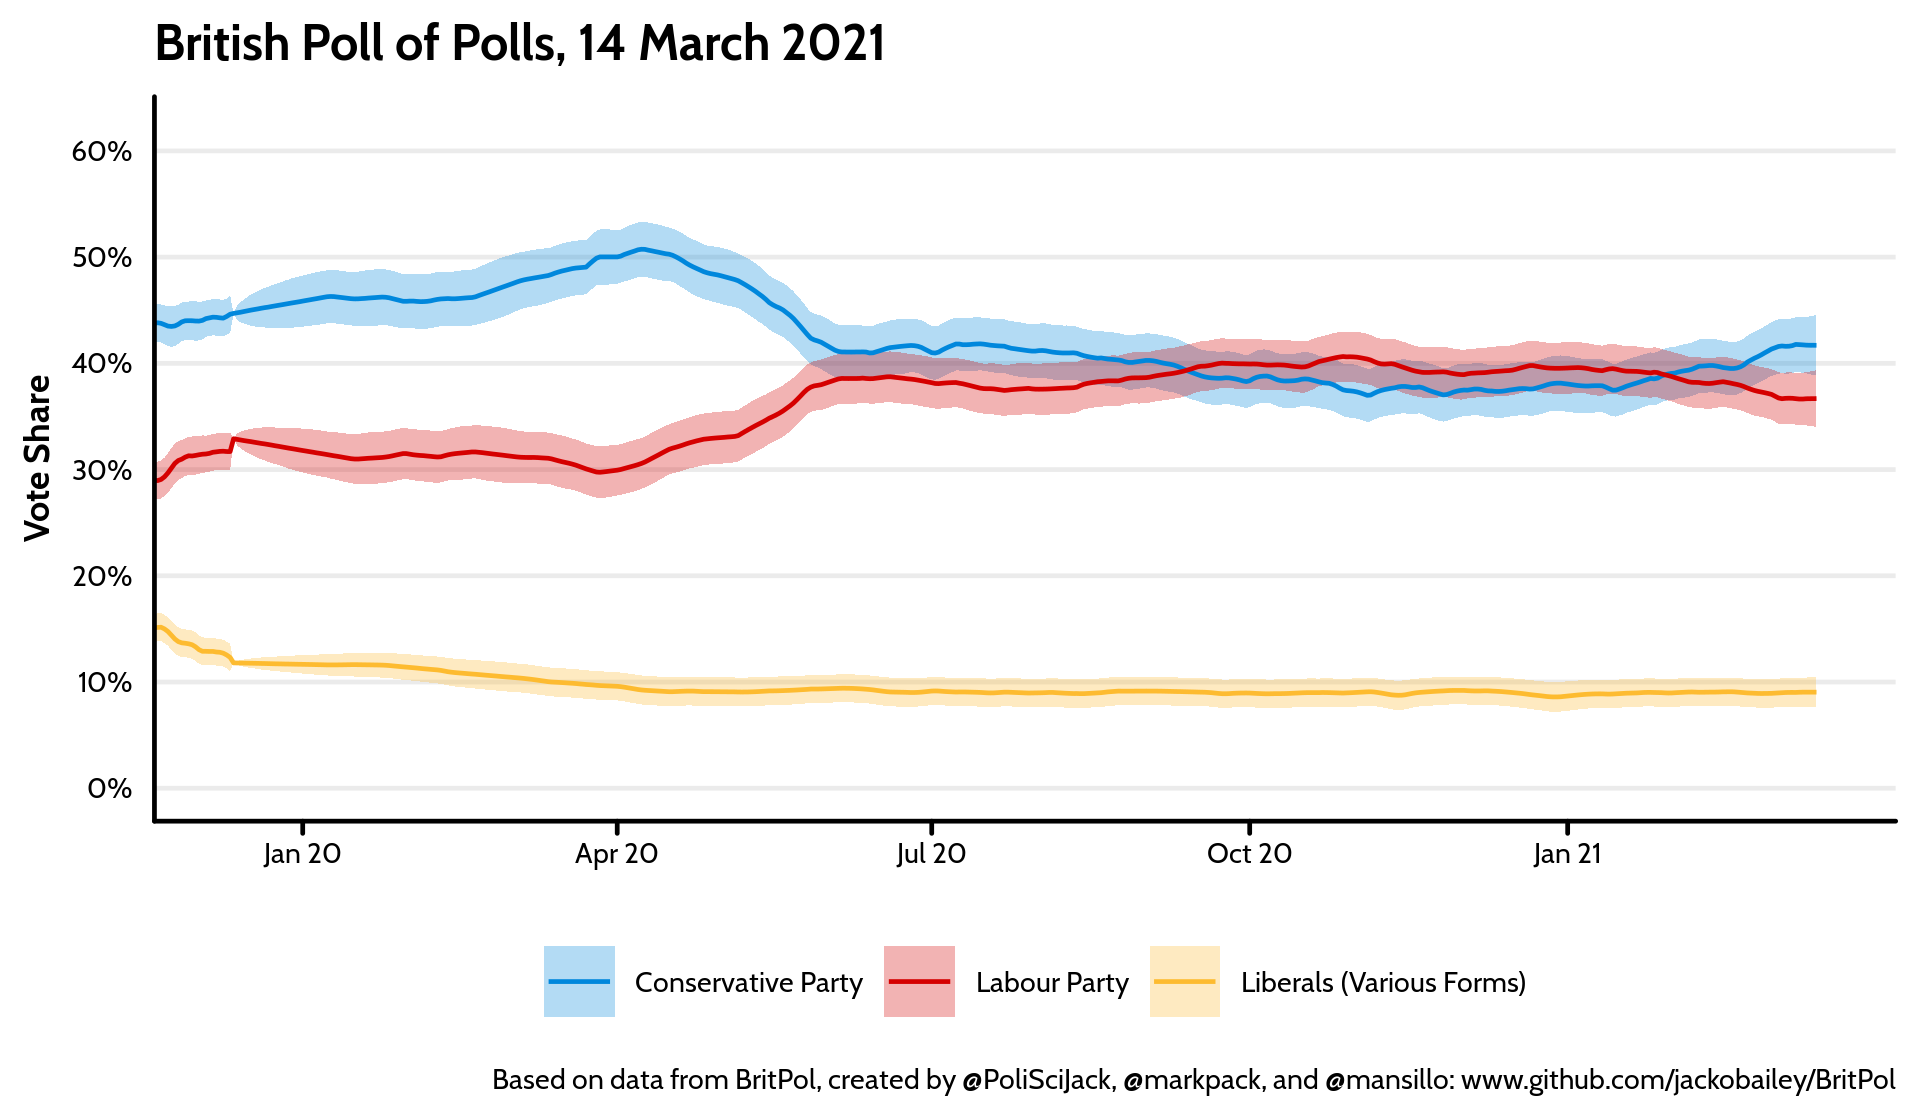
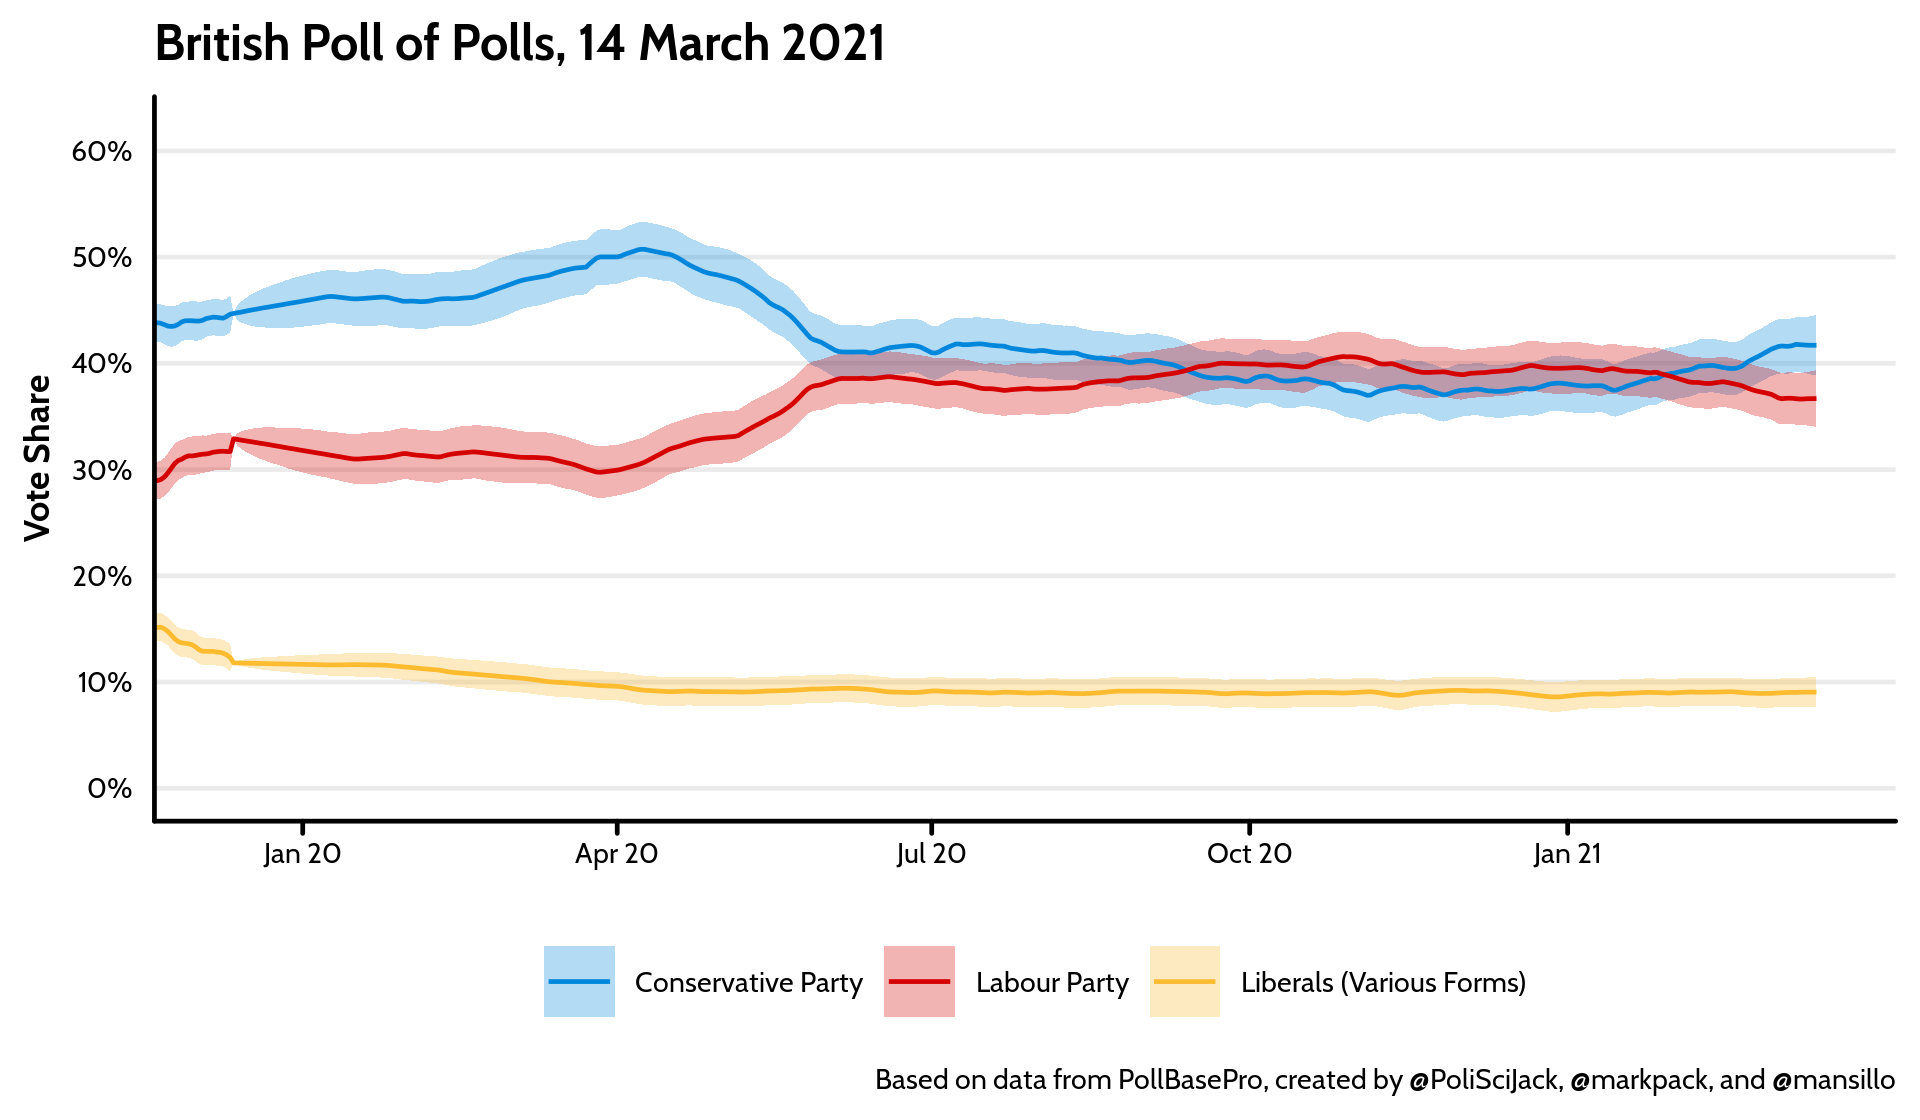
Fixed reference to data in plot

Changed region(s): [[0.25, 0.9375, 1.0, 1.0]]

diff --git a/README.md b/README.md
@@ -45,26 +45,29 @@ CI: 8% to 10%) of voters.
 
 Both `pollbase` and `pollbasepro` are living datasets. As such, users
 should try to use only the most recent version of the data when
-conducting their analyses. Like any project of this size, we cannot rule
-out the possibility that minor mistakes might have crept into our data
-processing pipeline. If you think that you have found an error in our
-code or wish to make a recommendation for a future update, please [raise
-an issue](https://github.com/jackobailey/BritPol/issues) or [contact us
-directly](mailto:jack.bailey@manchester.ac.uk).
+conducting their analyses. Like any project of this size, some minor
+mistakes might have crept into the data processing pipeline. If you
+think that you have found an error in the code or wish to make a
+recommendation for a future update, please [raise an
+issue](https://github.com/jackobailey/BritPol/issues).
 
-We are happy for others to use our code for their own purposes, but ask
-that they do so *with attribution*. That is, you may reproduce, reuse,
-and change the code here as you see fit, but must state in each case
-that you based your analysis on our work. The citations for each item in
-BritPol are as follows:
+Your may use any BritPol code for your own purposes, but you must do so
+*with attribution*. That is, you may reproduce, reuse, and change the
+code here as you see fit, but must state in each case that you used
+BritPol to produce your work. The citations for each item in BritPol are
+as follows:
+
+### BritPol
+
+-   **Documentation:** Bailey, J. (2021) BritPol v0.1.0: User Guide and
+    Data Codebook. Retrieved from doi.
+
+### PollBasePro
 
 -   **Data:** Bailey, J., M. Pack, and L. Mansillo (2021) PollBasePro:
     Daily Estimates of Aggregate Voting Intention in Great Britain from
     1955 to 2021 v.0.1.0 \[computer file\], March 2021. Retrieved from
     <https://doi.org/10.7910/DVN/3POIQW>.
-
--   **Documentation:** Bailey, J., M. Pack, and L. Mansillo (2021)
-    PollBasePro v0.1.0: User Guide and Codebook. Retrieved from doi.
 
 -   **Paper:** Bailey, J., M. Pack, and L. Mansillo (2021) PollBasePro:
     Daily Estimates of Aggregate Voting Intention in Great Britain from
